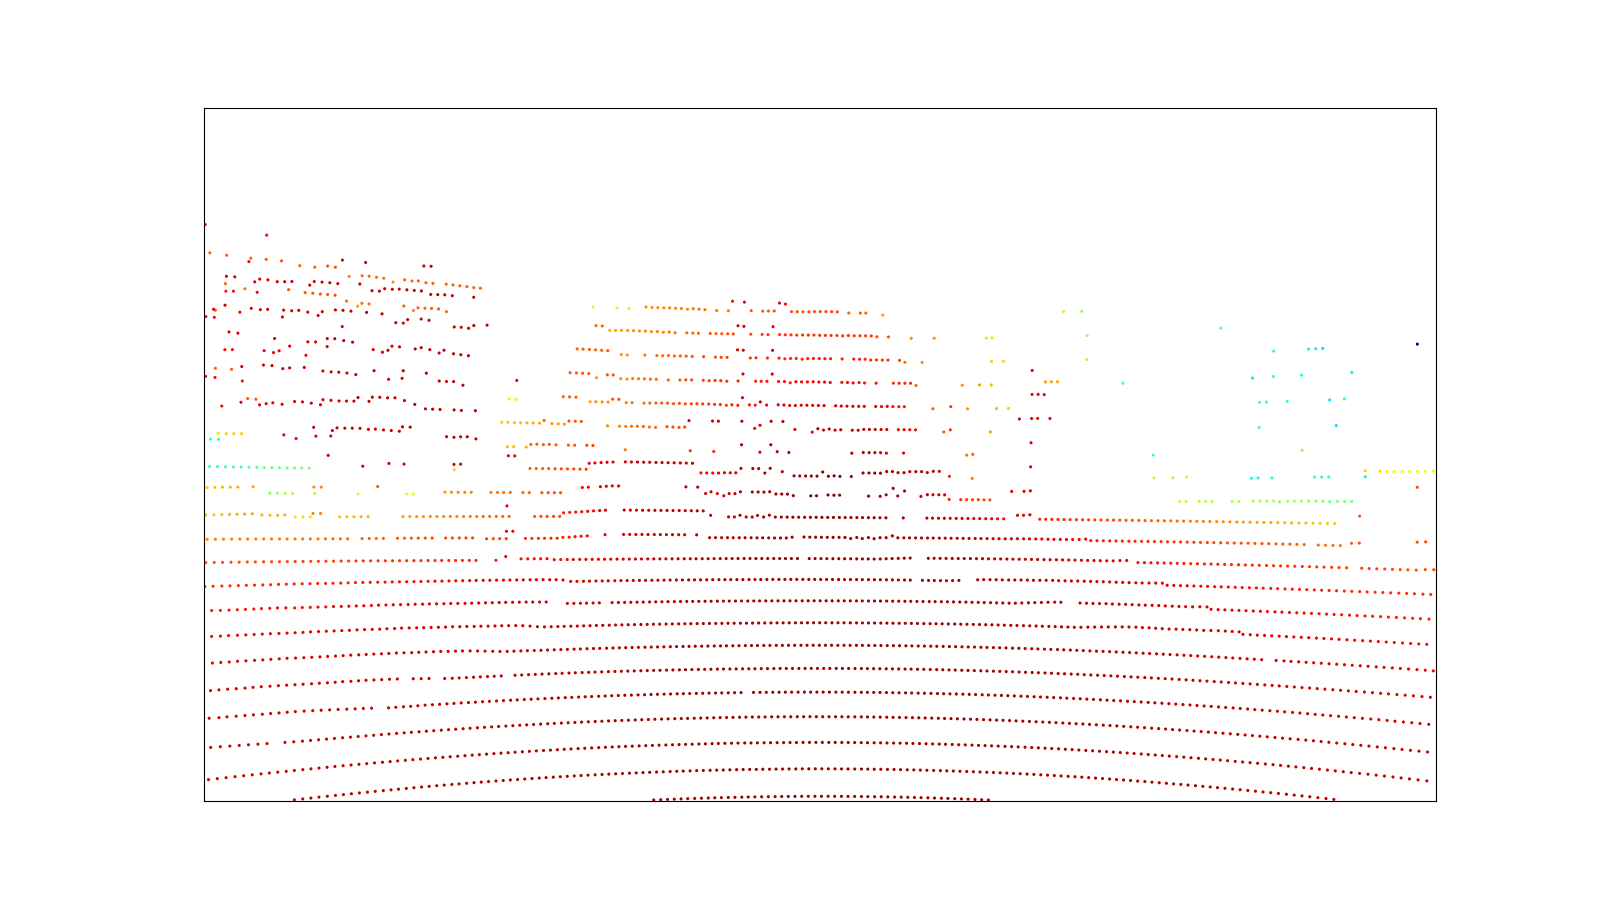
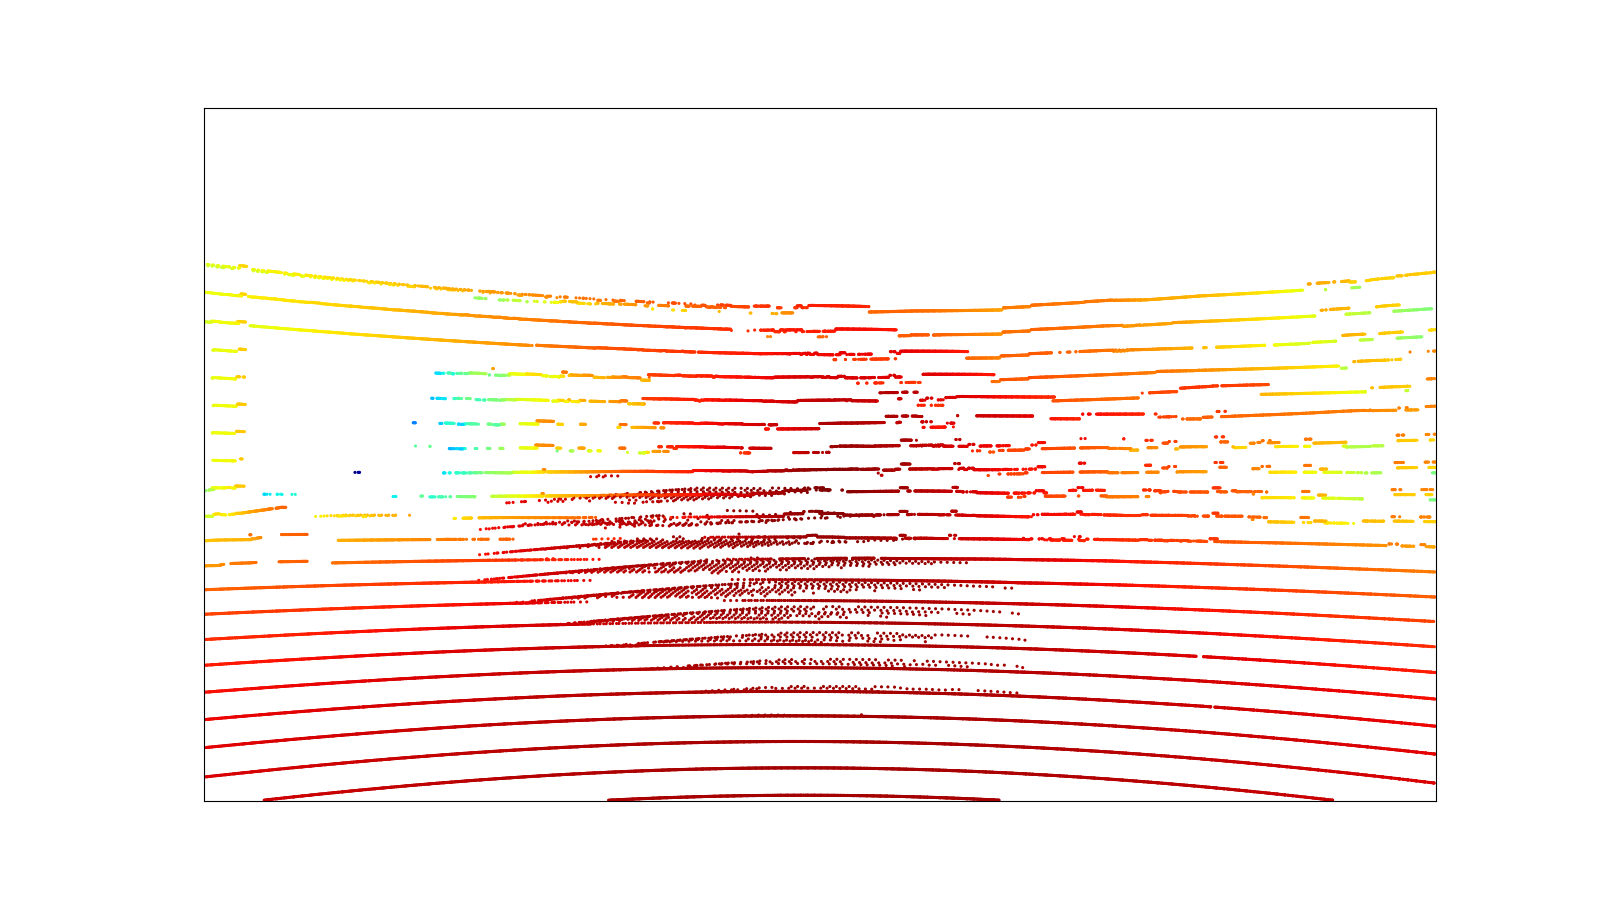
Front-view-can-nsweep

Changed region(s): [[0.125, 0.28, 0.9062, 0.9022], [0.875, 0.28, 0.9062, 0.3111]]

diff --git a/nuscenes/nuscenes.py b/nuscenes/nuscenes.py
@@ -384,9 +384,9 @@ class NuScenes:
                                                  camera_channel=camera_channel, out_path=out_path)
 
     def render_pointcloud_in_DHR(self, sample_token: str, dot_size: int = 5, camera_channel: str = 'CAM_FRONT',
-                                 encode_type='height', out_path: str = None) -> None:
+                                 encode_type='height', nsweeps: int = 1, out_path: str = None) -> None:
         self.explorer.render_pointcloud_in_DHR(sample_token, dot_size, camera_channel=camera_channel,
-                                               encode_type=encode_type, out_path=out_path)
+                                               encode_type=encode_type, nsweeps=nsweeps, out_path=out_path)
 
     def render_sample(self, sample_token: str, box_vis_level: BoxVisibility = BoxVisibility.ANY, nsweeps: int = 1,
                       out_path: str = None) -> None:
@@ -581,17 +581,18 @@ class NuScenesExplorer:
 
     def map_pointcloud(self, pointsensor_token: str,
                        camera_token: str,
-                       encode_type: str
+                       encode_type: str,
+                       nsweeps : int=1,
                        ) -> Tuple:
         """
         Map LIDAR points into depth, heigth and reflectance image
         """
         cam = self.nusc.get('sample_data', camera_token)
         pointsensor = self.nusc.get('sample_data', pointsensor_token)
-        pcl_path = osp.join(self.nusc.dataroot, pointsensor['filename'])
-        pc = LidarPointCloud.from_file(pcl_path)
-        # pc, times = LidarPointCloud.from_file_multisweep(self.nusc, sample_rec,
-        #                                                  chan='LIDAR_TOP', nsweeps=10)
+        sd_record = self.nusc.get('sample_data', pointsensor_token)
+        sample_rec = self.nusc.get('sample', sd_record['sample_token'])
+        pc, times = LidarPointCloud.from_file_multisweep(self.nusc, sample_rec, chan='LIDAR_TOP',
+                                                         ref_chan = 'LIDAR_TOP', nsweeps=nsweeps)
         im = Image.open(osp.join(self.nusc.dataroot, cam['filename']))
 
         # Points live in the point sensor frame. So they need to be transformed via global to the image plane.
@@ -682,9 +683,10 @@ class NuScenesExplorer:
 
     def render_pointcloud_in_DHR(self,
                                  sample_token: str,
-                                 dot_size: int = 1,
+                                 dot_size: int = 5,
                                  camera_channel: str = 'CAM_FRONT',
                                  encode_type = 'height',
+                                 nsweeps: int = 1,
                                  out_path: str = None) -> None:
         """
         Scatter-plots a point-cloud on top of image DHR
@@ -695,7 +697,8 @@ class NuScenesExplorer:
         pointsensor_token = sample_record['data']['LIDAR_TOP']
         camera_token = sample_record['data'][camera_channel]
 
-        points, coloring = self.map_pointcloud(pointsensor_token, camera_token, encode_type)
+        points, coloring = self.map_pointcloud(pointsensor_token, camera_token,
+                                               encode_type=encode_type, nsweeps=nsweeps)
 
         fig, ax = plt.subplots(figsize=(16, 9))
         cam = self.nusc.get('sample_data', camera_token)

diff --git a/testnet.py b/testnet.py
@@ -2,15 +2,15 @@ from nuscenes.nuscenes import NuScenes
 
 root = '/home/vincent/Data/v1.0-mini'
 nusc = NuScenes(version='v1.0-mini', dataroot=root, verbose=True)
-my_sample = nusc.sample[10]
+my_sample = nusc.sample[400]
 nusc.render_pointcloud_in_image(my_sample['token'], pointsensor_channel='LIDAR_TOP',
                                 out_path='LIDAR_TOP.png')
 
-nusc.render_pointcloud_in_DHR(my_sample['token'], encode_type='depth',
+nusc.render_pointcloud_in_DHR(my_sample['token'], encode_type='depth', nsweeps=10,
                               out_path='depth.png')
-nusc.render_pointcloud_in_DHR(my_sample['token'], encode_type='height',
+nusc.render_pointcloud_in_DHR(my_sample['token'], encode_type='height', nsweeps=10,
                               out_path='height.png')
-nusc.render_pointcloud_in_DHR(my_sample['token'], encode_type='reflectance',
+nusc.render_pointcloud_in_DHR(my_sample['token'], encode_type='reflectance', nsweeps=10,
                               out_path='reflectance.png')
 
-nusc.render_sample_data(my_sample['data']['LIDAR_TOP'], nsweeps=5)
+# nusc.render_sample_data(my_sample['data']['LIDAR_TOP'], nsweeps=5)
